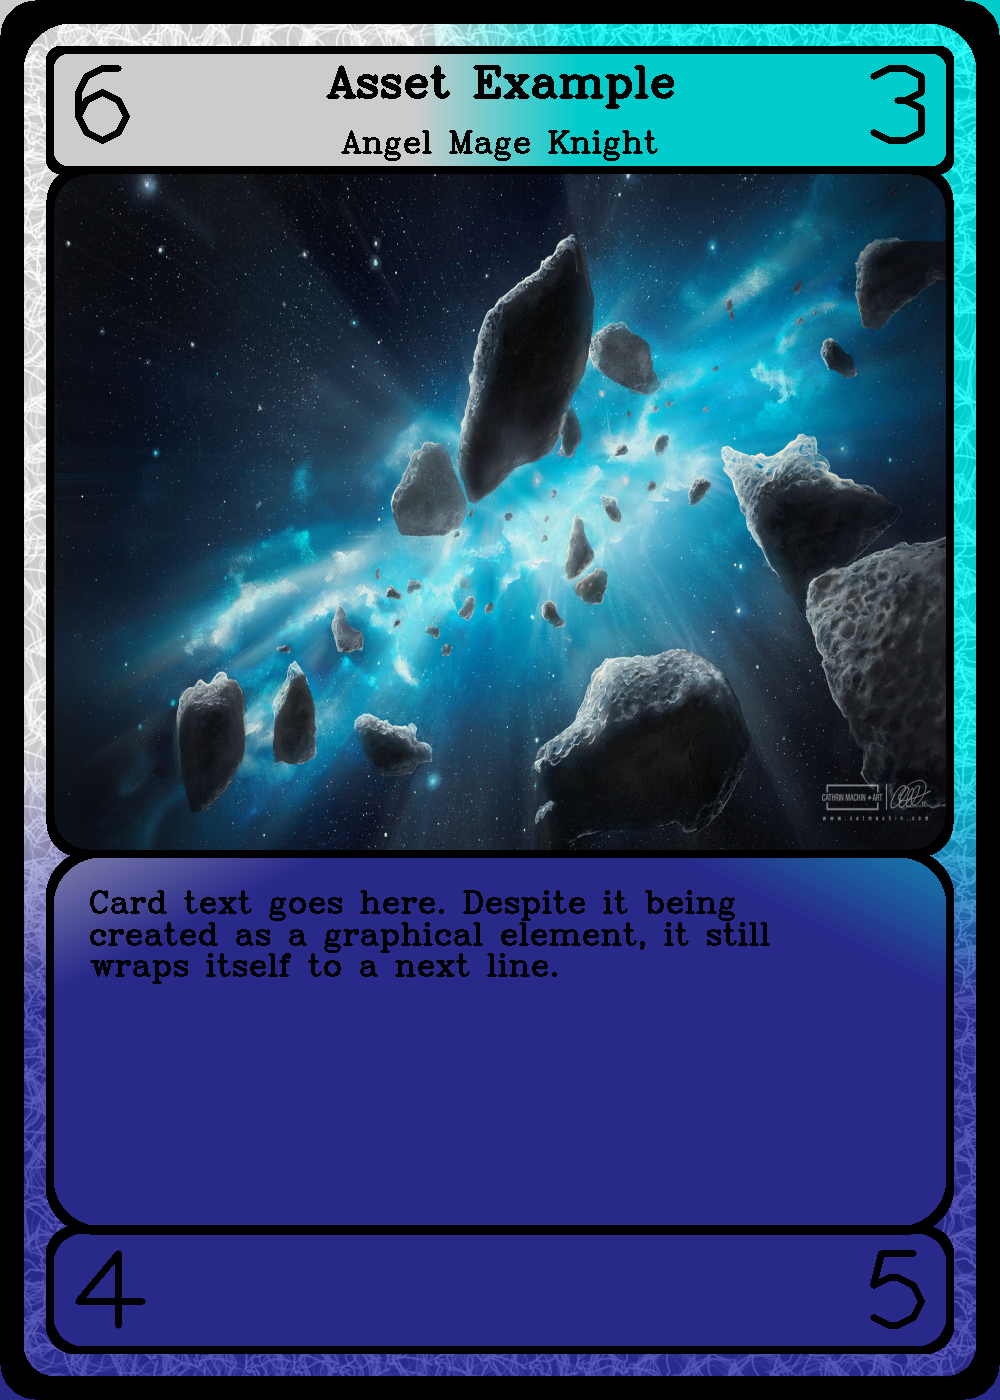
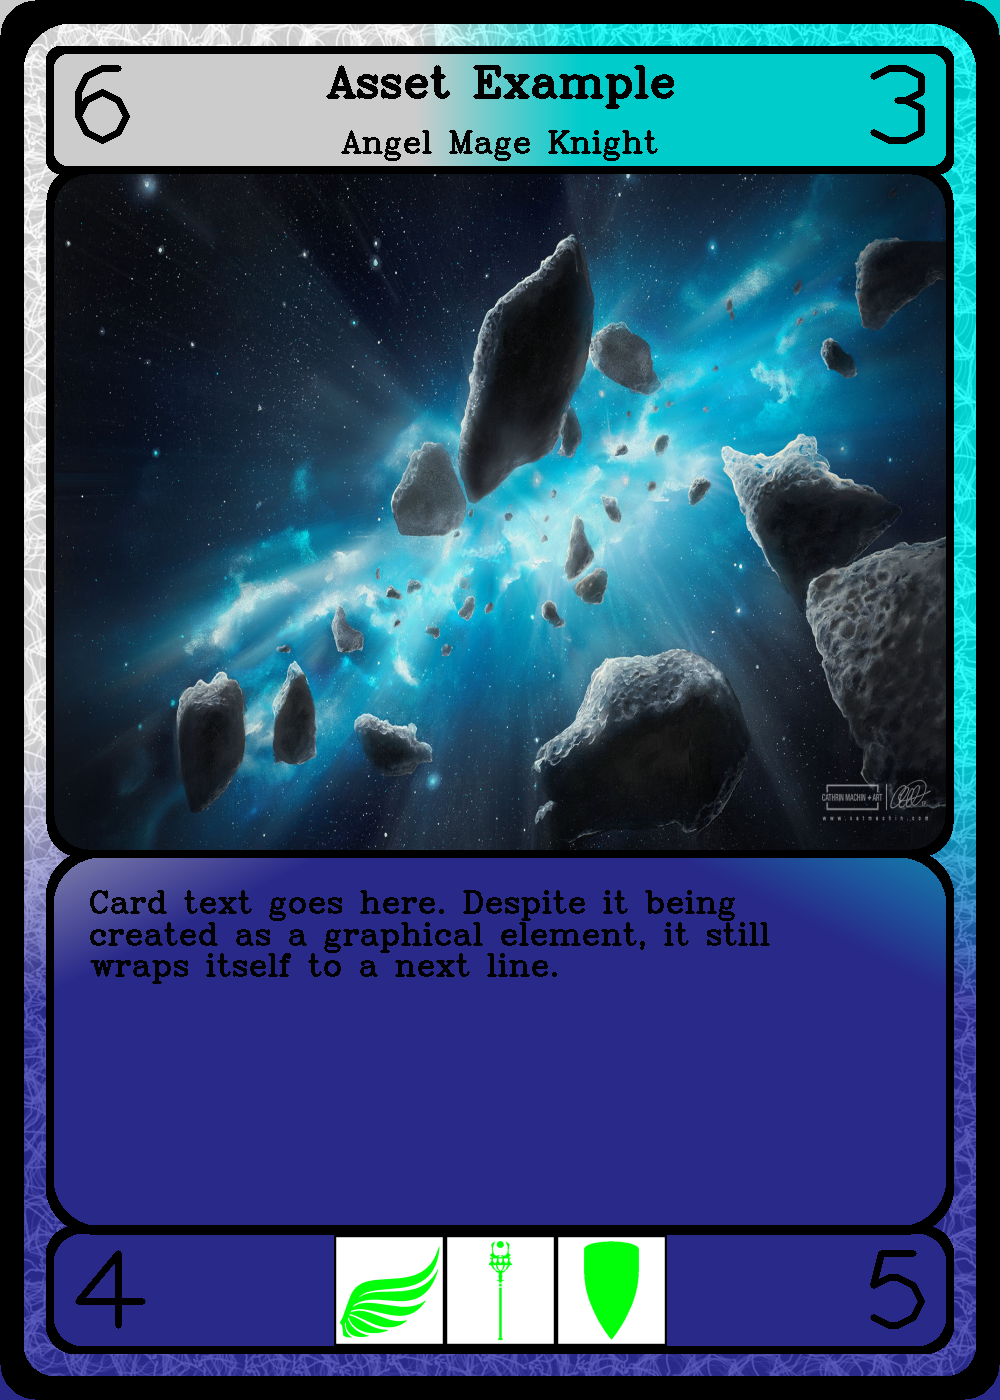
Allegience images on card

Changed region(s): [[0.31, 0.86, 0.682, 0.9829]]

diff --git a/RogueProject.py b/RogueProject.py
@@ -53,6 +53,11 @@ ALLEGIENCE_HEIGHT = int(130/1400 * CARD_HEIGHT)
 TRICOLOR_TRIANGLE_VERTICE_HEIGHT1 = 450 * SCALING_FACTOR
 TRICOLOR_TRIANGLE_VERTICE_HEIGHT2 = 325 * SCALING_FACTOR
 
+LOGO_WIDTH = int(55.5 * SCALING_FACTOR)
+LOGO_HEIGHT = int(55.5 * SCALING_FACTOR)
+
+LOGO_POSITION_H = int(1235 / 1400 * CARD_HEIGHT)
+
 LINE_SPACE_HEIGHT = 1
 
 # Constant card colors assigned to database input
@@ -309,7 +314,7 @@ def create_angled_gradients(card_colour_image, card_image, rotation_sign, x_plac
 
 
 # Main card generation function
-def create_card(card_template_path, border_template_path, creature_image_path, sparks_path, attack, mana, health, cost, ability_text, name_text, allegiences, output_path):
+def create_card(card_template_path, border_template_path, creature_image_path, sparks_path, logos_path, attack, mana, health, cost, ability_text, name_text, allegiences, output_path):
     # Essentially sanitizing database output
     if attack == "None":
         attack = "1"
@@ -491,6 +496,19 @@ def create_card(card_template_path, border_template_path, creature_image_path, s
     image8 = add_two_images(image7, name_text_image, (int(NAME_WIDTH_START + (NAME_WIDTH_END-NAME_WIDTH_START)/2 - name_text_image.shape[1]/2), NAME_HEIGHT))
     image9 = add_two_images(image8, allegience_text_image, (int(NAME_WIDTH_START + (NAME_WIDTH_END-NAME_WIDTH_START)/2 - allegience_text_image.shape[1]/2), ALLEGIENCE_HEIGHT))
 
+    for i in range(len(allegiences)):
+        logo_template = os.path.join(logos_path, ("Logo" + allegiences[i] + ".png"))
+        logo = cv.imread(logo_template, cv.IMREAD_UNCHANGED)
+        logo = cv.resize(logo, (LOGO_WIDTH, LOGO_HEIGHT), interpolation = cv.INTER_AREA)
+        image9 = add_two_images(image9, logo, (int(CARD_WIDTH // 2 - len(allegiences) * LOGO_WIDTH//2 + i * LOGO_WIDTH), LOGO_POSITION_H))
+
+
+
+
+        # 1 CARD_WIDTH//2 - LOGO_WIDTH//2
+        # 2 CARD_WIDTH//2 - 2 * (LOGO_WIDTH//2) ;;;;;;;; CARD_WIDTH//2
+        # 3 CARD_WIDTH//2 - 3 * (LOGO_WIDTH//2) ;;;;;;; CARD_WIDTH//2 - LOGO_WIDTH//2 ;;;;;;;; CARD_WIDTH//2 + LOGO_WIDTH//2
+
     image9[:, :, 3] = 255
 
     cv.imwrite(os.path.join(output_path, str(name_text) + ".png"), image9)
@@ -536,6 +554,7 @@ def main():
                         border_template_path,
                         os.path.join(default_path, characters_directory, card.creature_path),
                         sparks_template_path,
+                        os.path.join(default_path, "Templates"),
                         str(card.attack),
                         str(card.mana),
                         str(card.health),
